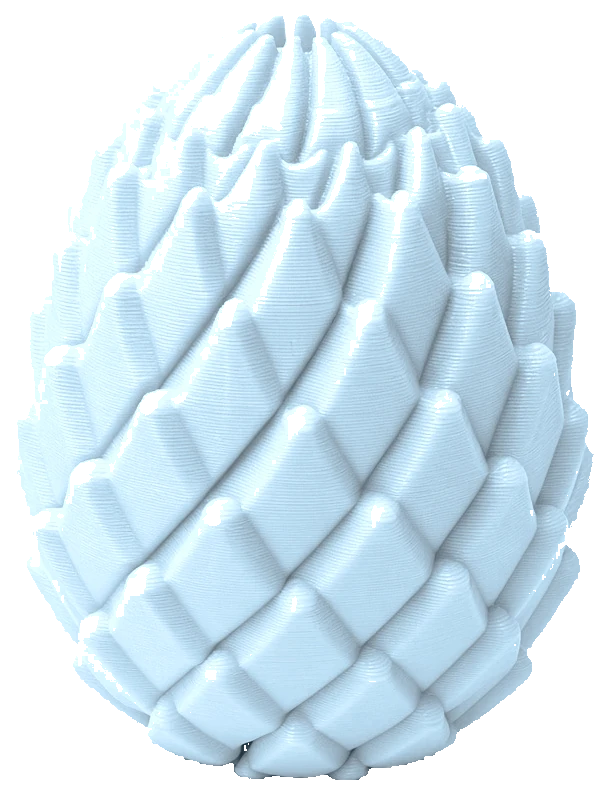
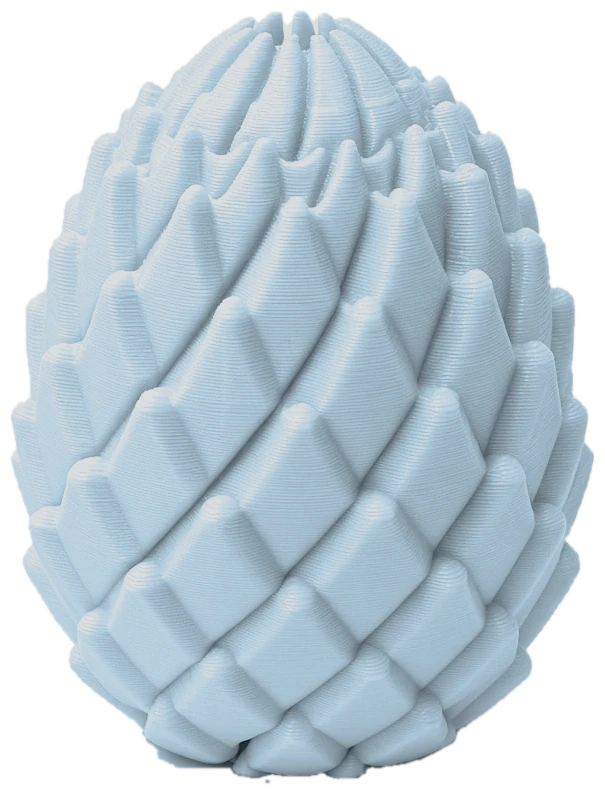
Clickly estilo Apple y huevo celeste corregido (#10)
* Web estilo Apple: nav global, footer tipo apple.com y nuevo inicio

- Nav global translúcida en todas las páginas, con menú a pantalla completa en el celular.
- Footer tipo apple.com compartido (notas, ruta, columnas y legales).
- Inicio armado como apple.com: hero NiDoo a pantalla completa, un bloque por marca
  con sus colores, grilla de dos, Por qué NiDoo y bolsas. Sin hero fijo de 150vh.
- Nav local con el nombre de cada página (Fidgets, Catálogo, Sensorial Egg, Infinity Q).
- Clickly: misma paleta, tipografía más grande y más aire. Precios, stock, pedido y
  reservas sin cambios (el JS no se tocó).
- Apariciones suaves al hacer scroll; respeta reducir movimiento.

Claude-Session: https://claude.ai/code/session_01G2Wx2DX2M8KV3A9zdghq8v

* Inicio: logo SpiBall en blanco, sin bloques de Catálogo ni Fidgets, sección Conocé las marcas

Claude-Session: https://claude.ai/code/session_01G2Wx2DX2M8KV3A9zdghq8v

* Inicio: sección Conocé las marcas que lleva a la nueva página /marcas/ con todas; huevo celeste sin partes blancas

Claude-Session: https://claude.ai/code/session_01G2Wx2DX2M8KV3A9zdghq8v

* Volver todo como estaba salvo Clickly (que queda con el estilo Apple); huevo celeste corregido

Claude-Session: https://claude.ai/code/session_01G2Wx2DX2M8KV3A9zdghq8v

---------

diff --git a/apple/ac.css b/apple/ac.css
@@ -1,0 +1,80 @@
+/* NiDoo · capa estilo Apple compartida por todas las páginas.
+   Nav global (44px, translúcida), menú móvil a pantalla completa, footer tipo apple.com y apariciones suaves al hacer scroll. */
+:root{
+  --ac-sf:-apple-system,BlinkMacSystemFont,"SF Pro Display","SF Pro Text","Helvetica Neue",Inter,"Segoe UI",Roboto,Arial,sans-serif;
+  --ac-gn-bg:rgba(250,250,252,.8);--ac-gn-solid:#fafafc;--ac-gn-fg:rgba(0,0,0,.8);--ac-gn-fg2:rgba(0,0,0,.56);--ac-gn-line:rgba(0,0,0,.08);
+  --ac-ft-bg:#f5f5f7;--ac-ft-fg:#6e6e73;--ac-ft-fg1:#1d1d1f;--ac-ft-line:#d2d2d7;
+  --ac-ease:cubic-bezier(.16,1,.3,1);
+}
+html[data-gn="dark"]{--ac-gn-bg:rgba(22,22,23,.8);--ac-gn-solid:#161617;--ac-gn-fg:rgba(255,255,255,.82);--ac-gn-fg2:rgba(255,255,255,.56);--ac-gn-line:rgba(255,255,255,.1)}
+html[data-gn="clickly"]{--ac-gn-bg:rgba(255,246,228,.82);--ac-gn-solid:#FFF6E4;--ac-gn-fg:#3A2418;--ac-gn-fg2:rgba(58,36,24,.62);--ac-gn-line:rgba(58,36,24,.12)}
+html[data-ft="clickly"]{--ac-ft-bg:#FEDFA2;--ac-ft-fg:rgba(58,36,24,.72);--ac-ft-fg1:#3A2418;--ac-ft-line:rgba(58,36,24,.18)}
+html[data-ft="dark"]{--ac-ft-bg:#161617;--ac-ft-fg:#86868b;--ac-ft-fg1:#f5f5f7;--ac-ft-line:#424245}
+@media (prefers-color-scheme:dark){html[data-gn="auto"]{--ac-gn-bg:rgba(22,22,23,.8);--ac-gn-solid:#161617;--ac-gn-fg:rgba(255,255,255,.82);--ac-gn-fg2:rgba(255,255,255,.56);--ac-gn-line:rgba(255,255,255,.1);
+  --ac-ft-bg:#161617;--ac-ft-fg:#86868b;--ac-ft-fg1:#f5f5f7;--ac-ft-line:#424245}}
+
+/* nav global */
+#ac-gn{position:relative;z-index:30;height:44px;font-family:var(--ac-sf)}
+html[data-gn-sticky] #ac-gn{position:sticky;top:0;z-index:9990}
+#ac-gn.open{z-index:9990}
+#ac-gn .ac-bar{position:absolute;inset:0;background:var(--ac-gn-bg);-webkit-backdrop-filter:saturate(180%) blur(20px);backdrop-filter:saturate(180%) blur(20px);transition:background .3s}
+#ac-gn ul{position:relative;list-style:none;margin:0 auto;padding:0 22px;max-width:1024px;height:44px;display:flex;align-items:center;justify-content:space-between}
+#ac-gn li{display:flex}
+#ac-gn a{display:flex;align-items:center;height:44px;padding:0 8px;font-size:12px;letter-spacing:-.01em;color:var(--ac-gn-fg);text-decoration:none;opacity:.88;transition:opacity .2s}
+#ac-gn a:hover{opacity:1}
+#ac-gn a[aria-current]{opacity:1;font-weight:600}
+#ac-gn .ac-egg svg{width:14px;height:17px;display:block}
+#ac-gn .ac-burger{display:none;width:44px;height:44px;margin-right:-12px;border:0;background:none;cursor:pointer;color:var(--ac-gn-fg);position:relative;-webkit-tap-highlight-color:transparent}
+#ac-gn .ac-burger i{position:absolute;left:15px;width:17px;height:1.2px;border-radius:1px;background:currentColor;transition:transform .35s var(--ac-ease),top .35s var(--ac-ease)}
+#ac-gn .ac-burger i:first-child{top:18px}#ac-gn .ac-burger i:last-child{top:25px}
+#ac-gn.open .ac-burger i:first-child{top:21.5px;transform:rotate(45deg)}
+#ac-gn.open .ac-burger i:last-child{top:21.5px;transform:rotate(-45deg)}
+#ac-gn .ac-sheet{display:none}
+@media (max-width:833px){
+  #ac-gn ul{padding:0 16px}
+  #ac-gn li.ac-it{display:none}
+  #ac-gn .ac-burger{display:block}
+  #ac-gn .ac-sheet{display:block;position:fixed;left:0;right:0;top:44px;height:0;overflow:hidden;background:var(--ac-gn-solid);transition:height .5s var(--ac-ease)}
+  #ac-gn.open .ac-sheet{height:calc(100dvh - 44px);overflow:auto}
+  #ac-gn.open .ac-bar{background:var(--ac-gn-solid)}
+  #ac-gn .ac-sheet a{display:block;height:auto;padding:8px 32px;font-size:28px;font-weight:600;letter-spacing:-.02em;opacity:0;transform:translateY(-8px);transition:opacity .3s,transform .4s var(--ac-ease)}
+  #ac-gn .ac-sheet a.ac-sm{font-size:14px;font-weight:400;color:var(--ac-gn-fg2);padding:6px 32px}
+  #ac-gn .ac-sheet .ac-h{display:block;padding:26px 32px 6px;font-size:12px;color:var(--ac-gn-fg2)}
+  #ac-gn.open .ac-sheet a{opacity:1;transform:none}
+  html.ac-lock,html.ac-lock body{overflow:hidden}
+}
+
+/* footer tipo apple.com */
+#ac-ft{text-align:left;background:var(--ac-ft-bg);color:var(--ac-ft-fg);font:12px/1.33 var(--ac-sf);letter-spacing:-.01em;padding:17px 0 21px;position:relative;z-index:3}
+#ac-ft .ac-w{max-width:980px;margin:0 auto;padding:0 max(22px,env(safe-area-inset-left,0px))}
+#ac-ft a{color:var(--ac-ft-fg1);text-decoration:none}
+#ac-ft a:hover{text-decoration:underline}
+#ac-ft .ac-note{padding-bottom:11px;border-bottom:1px solid var(--ac-ft-line)}
+#ac-ft .ac-note p{margin:0 0 8px}
+#ac-ft .ac-crumb{display:flex;align-items:center;gap:8px;padding:12px 0 2px;color:var(--ac-ft-fg1)}
+#ac-ft .ac-crumb svg{width:11px;height:13px}
+#ac-ft .ac-crumb span{opacity:.5}
+#ac-ft .ac-cols{display:grid;grid-template-columns:repeat(4,minmax(0,1fr));gap:24px;padding:18px 0 4px}
+#ac-ft h3{margin:0 0 8px;font-size:12px;font-weight:600;color:var(--ac-ft-fg1)}
+#ac-ft ul{list-style:none;margin:0;padding:0}
+#ac-ft li{margin-bottom:8px}
+#ac-ft .ac-cols a{color:var(--ac-ft-fg)}
+#ac-ft .ac-cols a:hover{color:var(--ac-ft-fg1)}
+#ac-ft .ac-legal{display:flex;flex-wrap:wrap;gap:6px 24px;justify-content:space-between;margin-top:18px;padding-top:12px;border-top:1px solid var(--ac-ft-line)}
+@media (max-width:833px){
+  #ac-ft .ac-cols{grid-template-columns:1fr;gap:0;padding:6px 0}
+  #ac-ft .ac-col{border-bottom:1px solid var(--ac-ft-line)}
+  #ac-ft h3{margin:0;padding:12px 0;cursor:pointer;display:flex;justify-content:space-between;font-weight:400}
+  #ac-ft h3::after{content:"+";font-size:16px;line-height:12px;transition:transform .3s var(--ac-ease)}
+  #ac-ft .ac-col.open h3::after{transform:rotate(45deg)}
+  #ac-ft .ac-col ul{display:none;padding:0 0 10px 12px}
+  #ac-ft .ac-col.open ul{display:block}
+  #ac-ft .ac-legal{border-top:0;margin-top:6px}
+}
+
+/* aparición al hacer scroll */
+.ac-r{opacity:0;transform:translateY(36px);transition:opacity 1s cubic-bezier(.25,.1,.25,1),transform 1.1s var(--ac-ease)}
+.ac-r.in{opacity:1;transform:none}
+.ac-r.d1{transition-delay:.08s}.ac-r.d2{transition-delay:.16s}.ac-r.d3{transition-delay:.24s}
+@media (prefers-reduced-motion:reduce){.ac-r{opacity:1;transform:none;transition:none}#ac-gn *{transition:none!important}}
+@media (prefers-reduced-transparency:reduce){#ac-gn .ac-bar{background:var(--ac-gn-solid);backdrop-filter:none;-webkit-backdrop-filter:none}}

diff --git a/apple/ac.js b/apple/ac.js
@@ -1,0 +1,48 @@
+/* NiDoo · nav global, footer y apariciones al hacer scroll (estilo apple.com). */
+(function(){
+var EGG='<svg viewBox="0 0 26 32" aria-hidden="true"><path fill="currentColor" d="M12.2 1C5.6 1.4 1 10.6 1 19.4 1 26.6 6.2 31 13.4 31 20.5 31 25 26.3 25 19.6 25 10.1 19.5.6 12.2 1Z"/></svg>';
+var LINKS=[['Clickly','/clickly/'],['Fidgets','/fidgets/'],['SpiBall','/spiball/'],['PENTA','/penta/'],['Catálogo','/catalogo/'],['Bolsas','/#bolsas'],['Ayuda','https://ig.me/m/clickly_oficial']];
+var path=location.pathname;
+function ext(h){return h.indexOf('http')===0?' target="_blank" rel="noopener"':''}
+function cur(h){return h!=='/'&&h.charAt(0)==='/'&&h.indexOf('#')<0&&path.indexOf(h)===0}
+
+var gn=document.getElementById('ac-gn');
+if(gn){
+  var li=LINKS.map(function(l){return '<li class="ac-it"><a href="'+l[1]+'"'+ext(l[1])+(cur(l[1])?' aria-current="page"':'')+'>'+l[0]+'</a></li>'}).join('');
+  var sh=LINKS.map(function(l,i){return '<a href="'+l[1]+'"'+ext(l[1])+' style="transition-delay:'+(.04*i+.08).toFixed(2)+'s">'+l[0]+'</a>'}).join('');
+  gn.setAttribute('aria-label','NiDoo');
+  gn.innerHTML='<div class="ac-bar"></div><ul><li><a class="ac-egg" href="/" aria-label="NiDoo, inicio">'+EGG+'</a></li>'+li+
+    '<li><button class="ac-burger" aria-label="Menú" aria-expanded="false"><i></i><i></i></button></li></ul>'+
+    '<div class="ac-sheet">'+sh+'<span class="ac-h">Seguinos</span><a class="ac-sm" href="https://www.instagram.com/clickly_oficial/" target="_blank" rel="noopener">Instagram</a></div>';
+  var bt=gn.querySelector('.ac-burger');
+  function setOpen(o){gn.classList.toggle('open',o);document.documentElement.classList.toggle('ac-lock',o);bt.setAttribute('aria-expanded',o)}
+  bt.addEventListener('click',function(){setOpen(!gn.classList.contains('open'))});
+  gn.querySelectorAll('.ac-sheet a').forEach(function(a){a.addEventListener('click',function(){setOpen(false)})});
+  addEventListener('keydown',function(e){if(e.key==='Escape')setOpen(false)});
+  addEventListener('resize',function(){if(innerWidth>833)setOpen(false)});
+}
+
+var ft=document.getElementById('ac-ft');
+if(ft){
+  var note=ft.getAttribute('data-note')||'';
+  var page=ft.getAttribute('data-page');
+  var cols=[
+    ['Marcas',[['Clickly','/clickly/'],['SpiBall','/spiball/'],['PENTA','/penta/'],['Fidgets','/fidgets/'],['Catálogo','/catalogo/']]],
+    ['Comprar',[['Armá tu caja Clickly','/clickly/'],['Diseñá tu SpiBall','/spiball/#disena'],['Elegí tu PENTA','/penta/#disena'],['Pedí por Instagram','https://ig.me/m/clickly_oficial']]],
+    ['NiDoo',[['Inicio NiDoo','/'],['Bolsas NiDoo','/#bolsas'],['Sensorial Egg','/fidgets/sensorial-egg/'],['Infinity Q','/fidgets/infinity-q/']]],
+    ['Seguinos',[['Instagram','https://www.instagram.com/clickly_oficial/'],['Mensaje directo','https://ig.me/m/clickly_oficial']]]];
+  ft.innerHTML='<div class="ac-w">'+(note?'<div class="ac-note">'+note+'</div>':'')+
+    '<div class="ac-crumb"><a href="/" aria-label="NiDoo">'+EGG+'</a>'+(page?'<span>›</span>'+page:'')+'</div>'+
+    '<div class="ac-cols">'+cols.map(function(c){return '<div class="ac-col"><h3>'+c[0]+'</h3><ul>'+c[1].map(function(l){var ext=l[1].indexOf('http')===0;return '<li><a href="'+l[1]+'"'+(ext?' target="_blank" rel="noopener"':'')+'>'+l[0]+'</a></li>'}).join('')+'</ul></div>'}).join('')+'</div>'+
+    '<div class="ac-legal"><span>Copyright © 2026 NiDoo. Hecho en Argentina, capa por capa.</span><span>Precios en pesos argentinos.</span></div></div>';
+  ft.querySelectorAll('.ac-col h3').forEach(function(h){h.addEventListener('click',function(){if(innerWidth<=833)h.parentNode.classList.toggle('open')})});
+}
+
+/* apariciones: todo lo marcado con data-r, más los títulos de sección */
+var RM=matchMedia('(prefers-reduced-motion: reduce)').matches;
+var els=[].slice.call(document.querySelectorAll('[data-r]'));
+if(!RM&&'IntersectionObserver' in window){
+  var io=new IntersectionObserver(function(es){es.forEach(function(e){if(e.isIntersecting){e.target.classList.add('in');io.unobserve(e.target)}})},{rootMargin:'0px 0px -8% 0px'});
+  els.forEach(function(el){var r=el.getBoundingClientRect();el.classList.add('ac-r');if(el.dataset.r)el.classList.add(el.dataset.r);if(r.top<innerHeight*.92)requestAnimationFrame(function(){el.classList.add('in')});else io.observe(el)});
+}
+})();

diff --git a/clickly/index.html b/clickly/index.html
@@ -1,5 +1,5 @@
 <!doctype html>
-<html lang="es-AR">
+<html lang="es-AR" data-gn="clickly" data-ft="clickly">
 <meta charset="utf-8">
 <meta name="viewport" content="width=device-width,initial-scale=1,viewport-fit=cover">
 <link rel="icon" href="/clickly/favicon.svg" type="image/svg+xml">
@@ -265,11 +265,35 @@ legend{font-weight:600;margin-bottom:.5rem;padding:0;font-size:1.05rem}
   .rv,.hero h1 span{opacity:1;transform:none}
 }
 </style>
+<link rel="stylesheet" href="/apple/ac.css">
+<style>
+/* Estilo Apple con la paleta de Clickly: nav global arriba, nav local con la marca a la izquierda, tipografía más grande y más aire. */
+.nav{background:rgba(255,246,228,.8);-webkit-backdrop-filter:saturate(180%) blur(20px);backdrop-filter:saturate(180%) blur(20px);box-shadow:0 1px 0 var(--line)}
+.nav .wrap{display:flex;align-items:center;gap:1.6rem;height:56px}
+.nav .word{font-size:1.6rem;margin-right:auto}
+.nav .lk{gap:1.6rem}.nav .lk a{font-weight:500;font-size:.92rem;color:var(--ink2);transition:color .2s}.nav .lk a:hover{color:var(--ink)}
+.nav .lk a:not(:first-child){display:inline}
+.bag{height:34px;padding:0 .95rem 0 .8rem;font-size:.92rem}.bag svg{width:16px;height:16px}
+@media (max-width:600px){.nav .lk{display:none}}
+.ann{font-size:.82rem;padding:.55rem 16px}
+.hero{padding:clamp(3.6rem,8vw,6.5rem) 0 0}
+.hero h1{font-size:clamp(3.3rem,11vw,8.2rem);line-height:.92;letter-spacing:-.045em;max-width:13ch}
+.hero .sub{font-size:clamp(1.2rem,2.2vw,1.6rem);line-height:1.3;max-width:30ch;margin-bottom:1.8rem}
+.parade{margin-top:clamp(2.4rem,5vw,4rem)}
+section{padding:clamp(4.5rem,9vw,8rem) 0}
+.hd{margin-bottom:clamp(2rem,4vw,3.4rem)}
+.hd h2{font-size:clamp(2.7rem,9vw,5.6rem);letter-spacing:-.045em}
+.hd p{font-size:clamp(1.1rem,1.8vw,1.35rem)}
+.it h3{font-size:clamp(1.7rem,6.4vw,3.6rem)}
+@media (min-width:760px){.it .ph{width:clamp(220px,30vw,340px)}.it .d{font-size:1.1rem}}
+#ac-ft{padding-bottom:110px}
+</style>
 
+<nav id="ac-gn"></nav>
 <div class="ann">Preventa abierta · <b>Envío gratis</b> a sucursal desde 2 cajas</div>
 <header class="nav" id="nav"><div class="wrap">
-  <nav class="lk" aria-label="Secciones"><a href="#pops">Pops</a><a href="#cajas">Cajas</a><a href="#preguntas">Preguntas</a></nav>
   <a class="word" href="#top" aria-label="Clickly, inicio">clickly</a>
+  <nav class="lk" aria-label="Secciones"><a href="#pops">Pops</a><a href="#cajas">Cajas</a><a href="#preguntas">Preguntas</a></nav>
   <div class="r"><button class="bag" id="bag" data-press data-open="1" aria-label="Pedir"><svg viewBox="0 0 24 24" fill="none" stroke="currentColor" stroke-width="2.2" stroke-linecap="round" stroke-linejoin="round" aria-hidden="true"><path d="M5 8h14l-1.2 11.2a2 2 0 0 1-2 1.8H8.2a2 2 0 0 1-2-1.8z"/><path d="M9 8V6.5a3 3 0 0 1 6 0V8"/></svg>Pedir<span class="n tab" id="bagn"></span></button></div>
 </div></header>
 
@@ -316,12 +340,8 @@ legend{font-weight:600;margin-bottom:.5rem;padding:0;font-size:1.05rem}
 </div></section>
 </main>
 
-<footer class="foot"><div class="wrap">
-  <span class="word">clickly</span>
-  <div class="lk"><a href="#pops">Pops</a><a href="#cajas">Cajas</a><a href="#como">Cómo funciona</a><a href="#preguntas">Preguntas</a><a href="https://ig.me/m/clickly_oficial" target="_blank" rel="noopener">Instagram</a></div>
-  <p>Clickers impresos en 3D. No son comida. Preventa: reservás sin pagar ahora. Tus cajas y tu reserva quedan guardadas en este dispositivo. Envíos solo dentro de Argentina.</p>
-  <p>Clickly es una marca de <a href="../" style="color:inherit;text-decoration:underline">NiDoo</a>. ©&nbsp;2026.</p>
-</div></footer>
+<footer id="ac-ft" data-page="Clickly" data-note="<p>Clickers impresos en 3D. No son comida. Preventa: reservás sin pagar ahora. Tus cajas y tu reserva quedan guardadas en este dispositivo. Envíos solo dentro de Argentina.</p><p>Clickly es una marca de NiDoo.</p>"></footer>
+<script src="/apple/ac.js"></script>
 
 <button class="fab hide" id="fab" data-press data-open="3" aria-label="Ver tu caja"><span class="slots" id="mini" aria-hidden="true"></span><span class="tx"><b id="fabt">Tu caja</b><span id="fabs"></span></span><span class="pill" id="fabb">Ver caja</span></button>
 

diff --git a/fidgets/index.html b/fidgets/index.html
@@ -223,7 +223,7 @@ const EXTRA={
  infinity:{url:'infinity-q/',badge:'Nuevo',tint:'#ece6fb',w:'74%',
   colores:[['Lavanda','#cdbff0','infinity-lavanda.webp'],['Celeste pastel','#b9dcf2','infinity-celeste.webp'],['Rosa pastel','#f4bfd6','infinity-rosa.webp'],['Amarillo pastel','#f9e79a','infinity-amarillo.webp']]},
  egg:{url:'sensorial-egg/',badge:'Nuevo',tint:'#e3f0fc',
-  colores:[['Celeste pastel','#b9dcf2','sensorial-egg.webp?v=3'],['Lavanda','#cdbff0','egg-lavanda.webp?v=2'],['Rosa pastel','#f4bfd6','egg-rosa.webp?v=2'],['Amarillo pastel','#f9e79a','egg-amarillo.webp?v=2']]}
+  colores:[['Celeste pastel','#b9dcf2','sensorial-egg.webp?v=4'],['Lavanda','#cdbff0','egg-lavanda.webp?v=2'],['Rosa pastel','#f4bfd6','egg-rosa.webp?v=2'],['Amarillo pastel','#f9e79a','egg-amarillo.webp?v=2']]}
 };
 const BASE=[{id:'egg',nombre:'Sensorial Egg',descripcion:'Lo girás y se vuelve espiral.',precio:0,stock:0,color:'#b9dcf2',imagen:''},{id:'infinity',nombre:'Infinity Q',descripcion:'El cubo infinito: se abre, se pliega y no termina nunca.',precio:0,stock:0,color:'#cdbff0',imagen:''}];
 const money=v=>'$'+Math.round(v).toLocaleString('es-AR');
@@ -232,7 +232,7 @@ function render(list){
  list=list.filter(q=>q.id!=='donut');  /* Donut Loop discontinuada */
  const F=list.map(q=>{const x=EXTRA[q.id]||{};return{w:x.w||'',id:q.id,nombre:q.nombre,desc:q.descripcion||'',url:x.url||'',badge:x.badge||'',tint:x.tint||'#eef0fb',
   precio:q.precio>0?(q.stock>0?money(q.precio):'Agotado'):'Próximamente',
-  colores:x.colores||[[q.nombre,q.color||'#cdbff0',q.imagen||'sensorial-egg.webp?v=3']]}});
+  colores:x.colores||[[q.nombre,q.color||'#cdbff0',q.imagen||'sensorial-egg.webp?v=4']]}});
  G.innerHTML=F.map(f=>{const L=(a,b,c='')=>f.url?`<a ${c} href="${f.url}">${a}</a>`:`<span ${c}>${a}</span>`;
   return `<article class="card rv in" data-id="${f.id}" style="--tint:${f.tint}">
   ${f.url?`<a class="ph" href="${f.url}" aria-hidden="true" tabindex="-1">`:'<div class="ph">'}${f.badge?`<span class="badge">${f.badge}</span>`:''}<img src="${f.colores[0][2]}" alt="${f.nombre}, color ${f.colores[0][0]}" loading="lazy"${f.w?` style="width:${f.w}"`:''}>${f.url?'</a>':'</div>'}

diff --git a/fidgets/sensorial-egg/index.html b/fidgets/sensorial-egg/index.html
@@ -162,7 +162,7 @@ footer a{color:var(--fg2);text-decoration:underline}
       <div class="stage rv">
         <div class="egg">
           <i class="ring" style="width:118%;aspect-ratio:1"></i><i class="ring" style="width:88%;aspect-ratio:1;animation-direction:reverse;animation-duration:30s"></i>
-          <img id="eggImg" src="../sensorial-egg.webp?v=3" width="609" height="807" alt="Sensorial Egg: huevo celeste impreso en 3D, con escamas en espiral">
+          <img id="eggImg" src="../sensorial-egg.webp?v=4" width="609" height="807" alt="Sensorial Egg: huevo celeste impreso en 3D, con escamas en espiral">
         </div>
         <div class="info">
           <span class="tag">Fidget N.º 1 · Nuevo</span>
@@ -212,12 +212,12 @@ footer a{color:var(--fg2);text-decoration:underline}
       <h3 class="rv">Colores pastel.</h3>
       <p class="s rv">Celeste pastel, lavanda, rosa pastel y amarillo pastel. Tocá uno para verlo.</p>
       <div class="sw rv" role="group" aria-label="Colores">
-        <button aria-pressed="true" data-src="../sensorial-egg.webp?v=3"><i style="background:#b9dcf2"></i>Celeste pastel</button>
+        <button aria-pressed="true" data-src="../sensorial-egg.webp?v=4"><i style="background:#b9dcf2"></i>Celeste pastel</button>
         <button aria-pressed="false" data-src="../egg-lavanda.webp?v=2"><i style="background:#cdbff0"></i>Lavanda</button>
         <button aria-pressed="false" data-src="../egg-rosa.webp?v=2"><i style="background:#f4bfd6"></i>Rosa pastel</button>
         <button aria-pressed="false" data-src="../egg-amarillo.webp?v=2"><i style="background:#f9e79a"></i>Amarillo pastel</button>
       </div>
-      <div class="prev"><img id="swImg" src="../sensorial-egg.webp?v=3" width="609" height="807" alt="Sensorial Egg en el color elegido"></div>
+      <div class="prev"><img id="swImg" src="../sensorial-egg.webp?v=4" width="609" height="807" alt="Sensorial Egg en el color elegido"></div>
     </div>
   </section>
 
